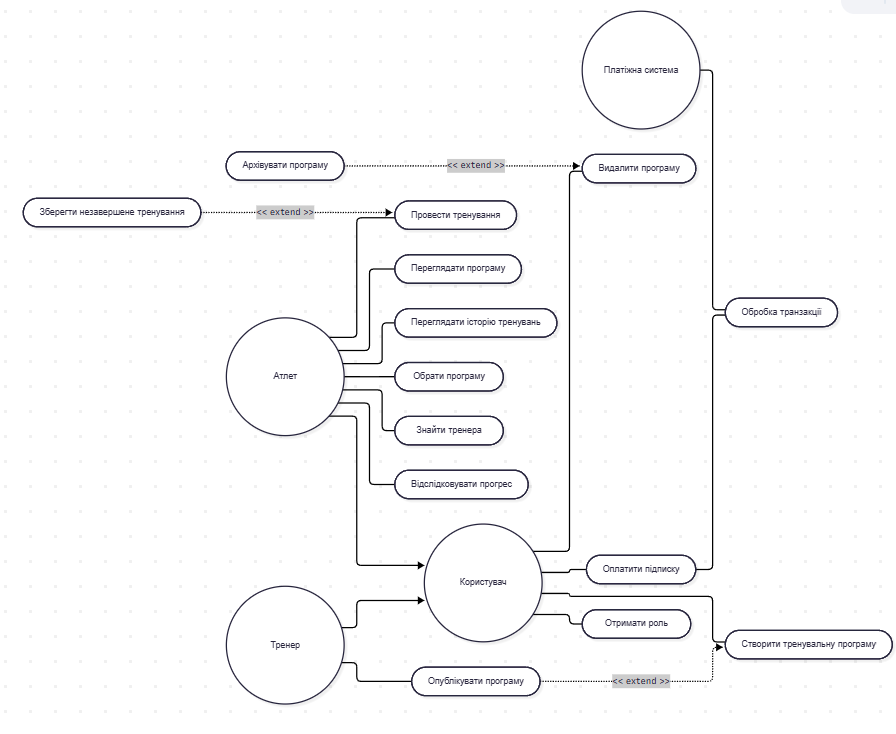
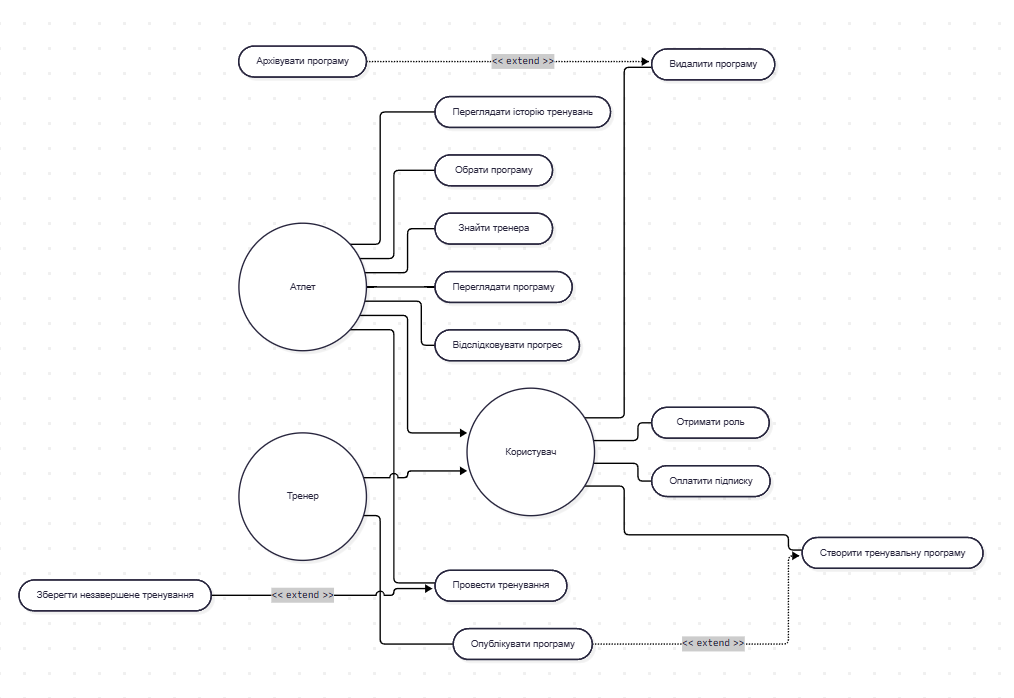
changed use case diagram

diff --git a/Lab2/artifact/model.md b/Lab2/artifact/model.md
@@ -2,7 +2,7 @@ flowchart LR
     User((Користувач))
     Athlete((Атлет))
     Trainer((Тренер))
-    PaymentSystem((Платіжна система))
+  
 
     Athlete --> User
     Trainer --> User
@@ -41,7 +41,6 @@ flowchart LR
     Athlete --- UC_ChooseProg
 
     UC_Pay --- UC_Transaction
-    PaymentSystem --- UC_Transaction
 
     UC_SaveInc -.->|"<< extend >>"| UC_Workout
     UC_PublishProg -.->|"<< extend >>"| UC_CreateProg
